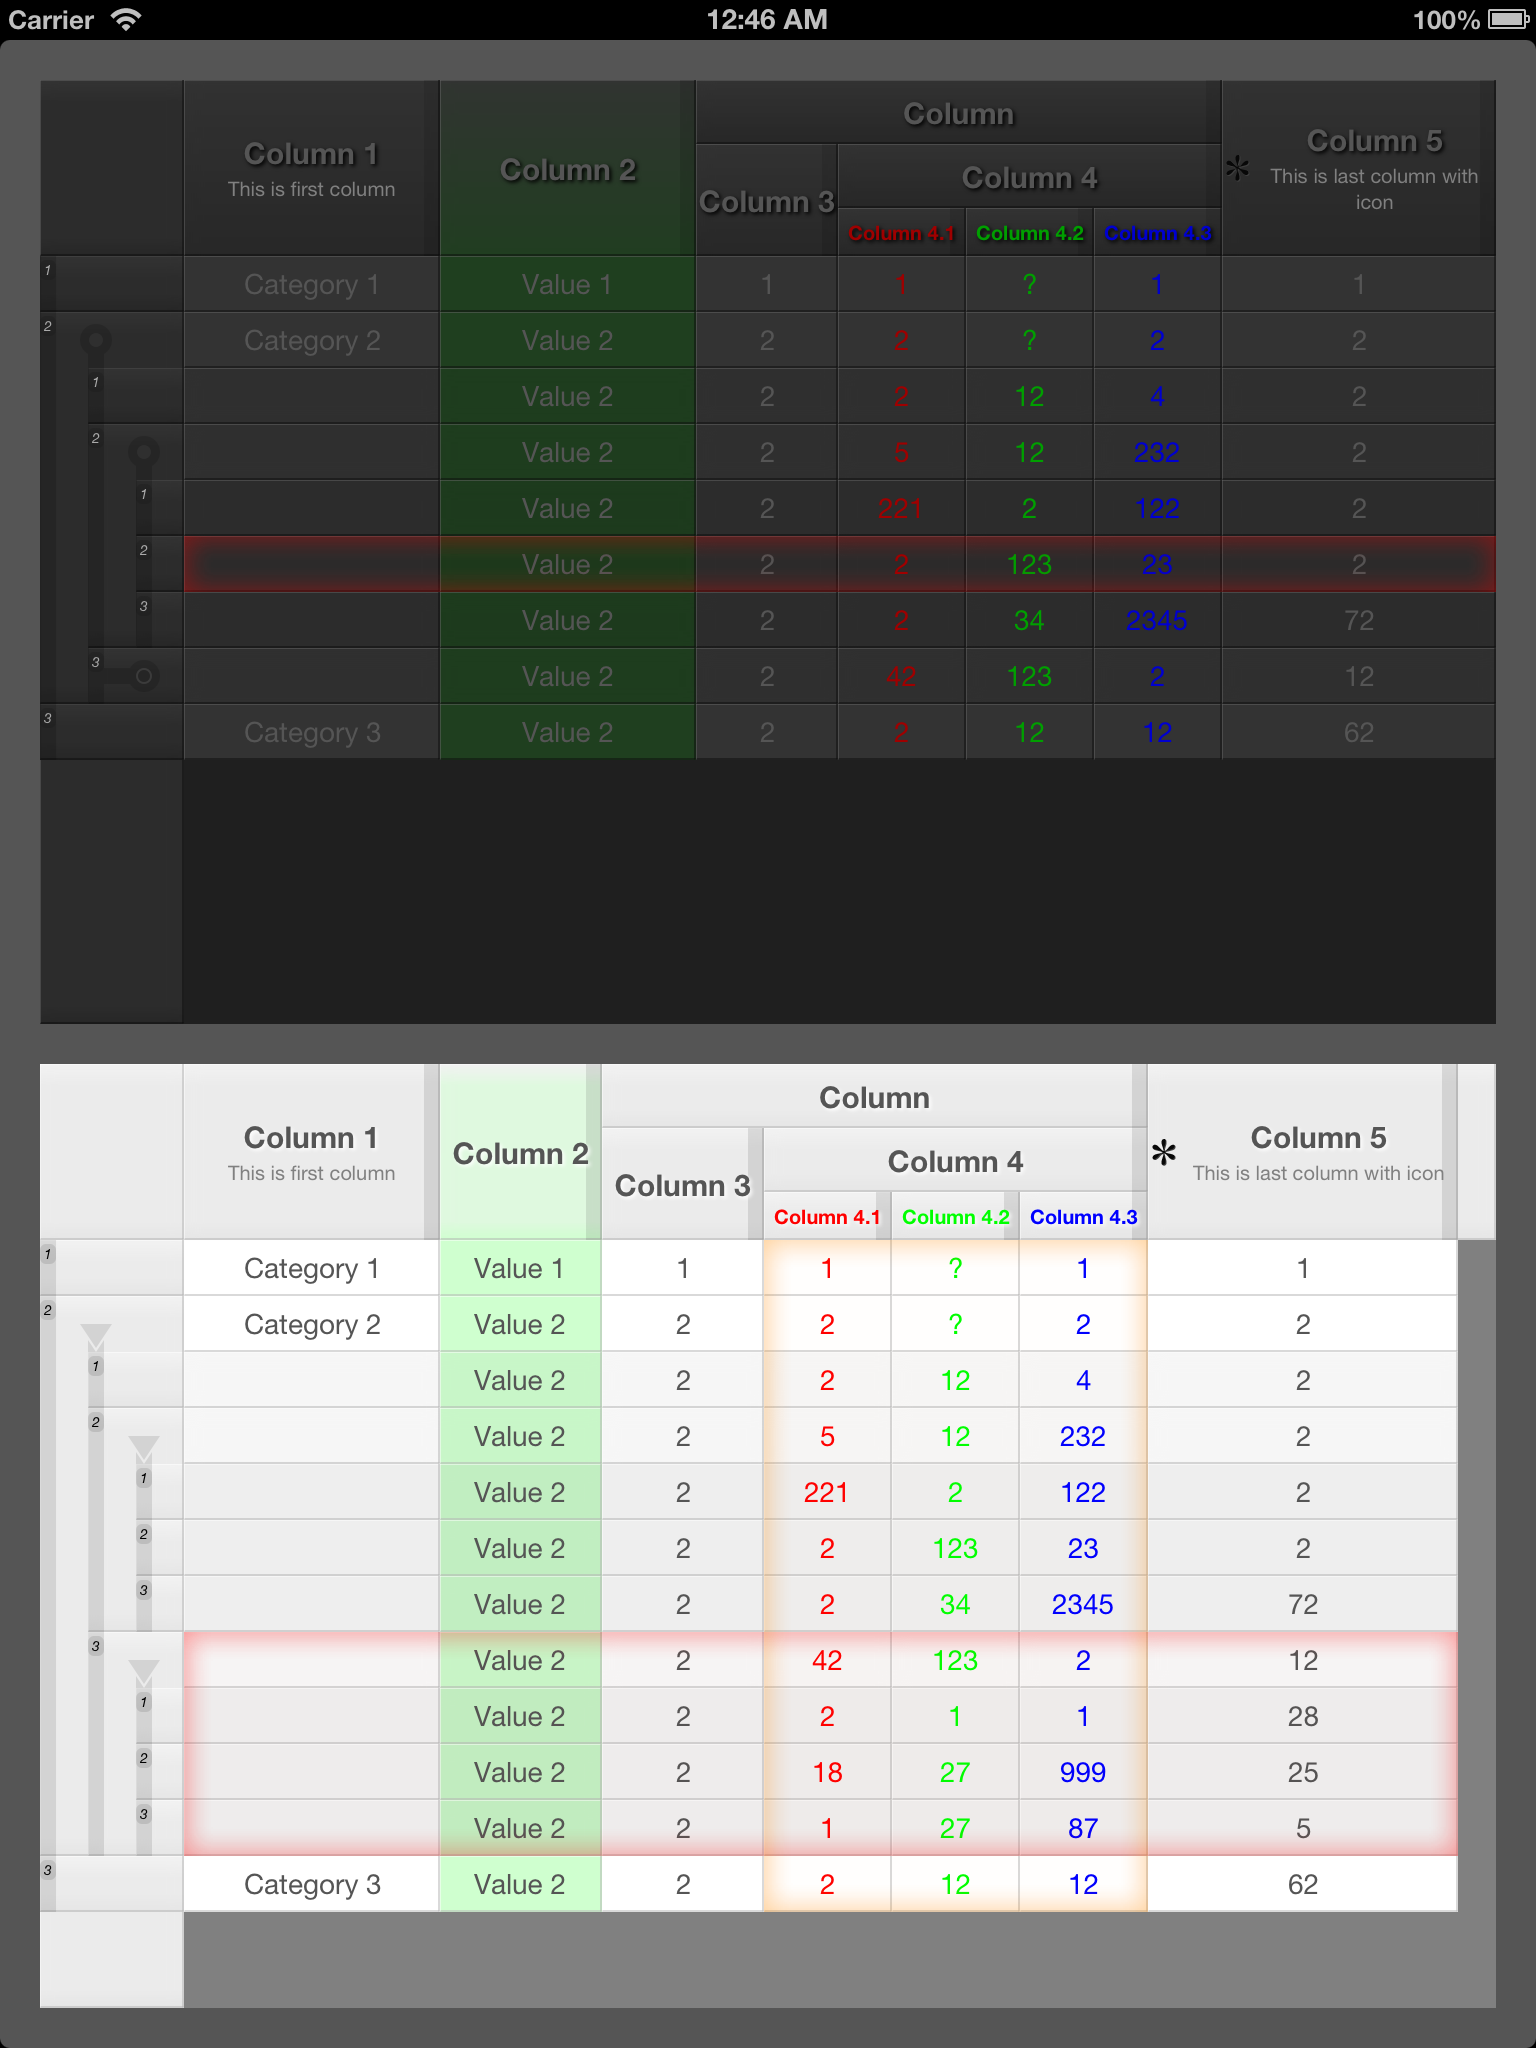
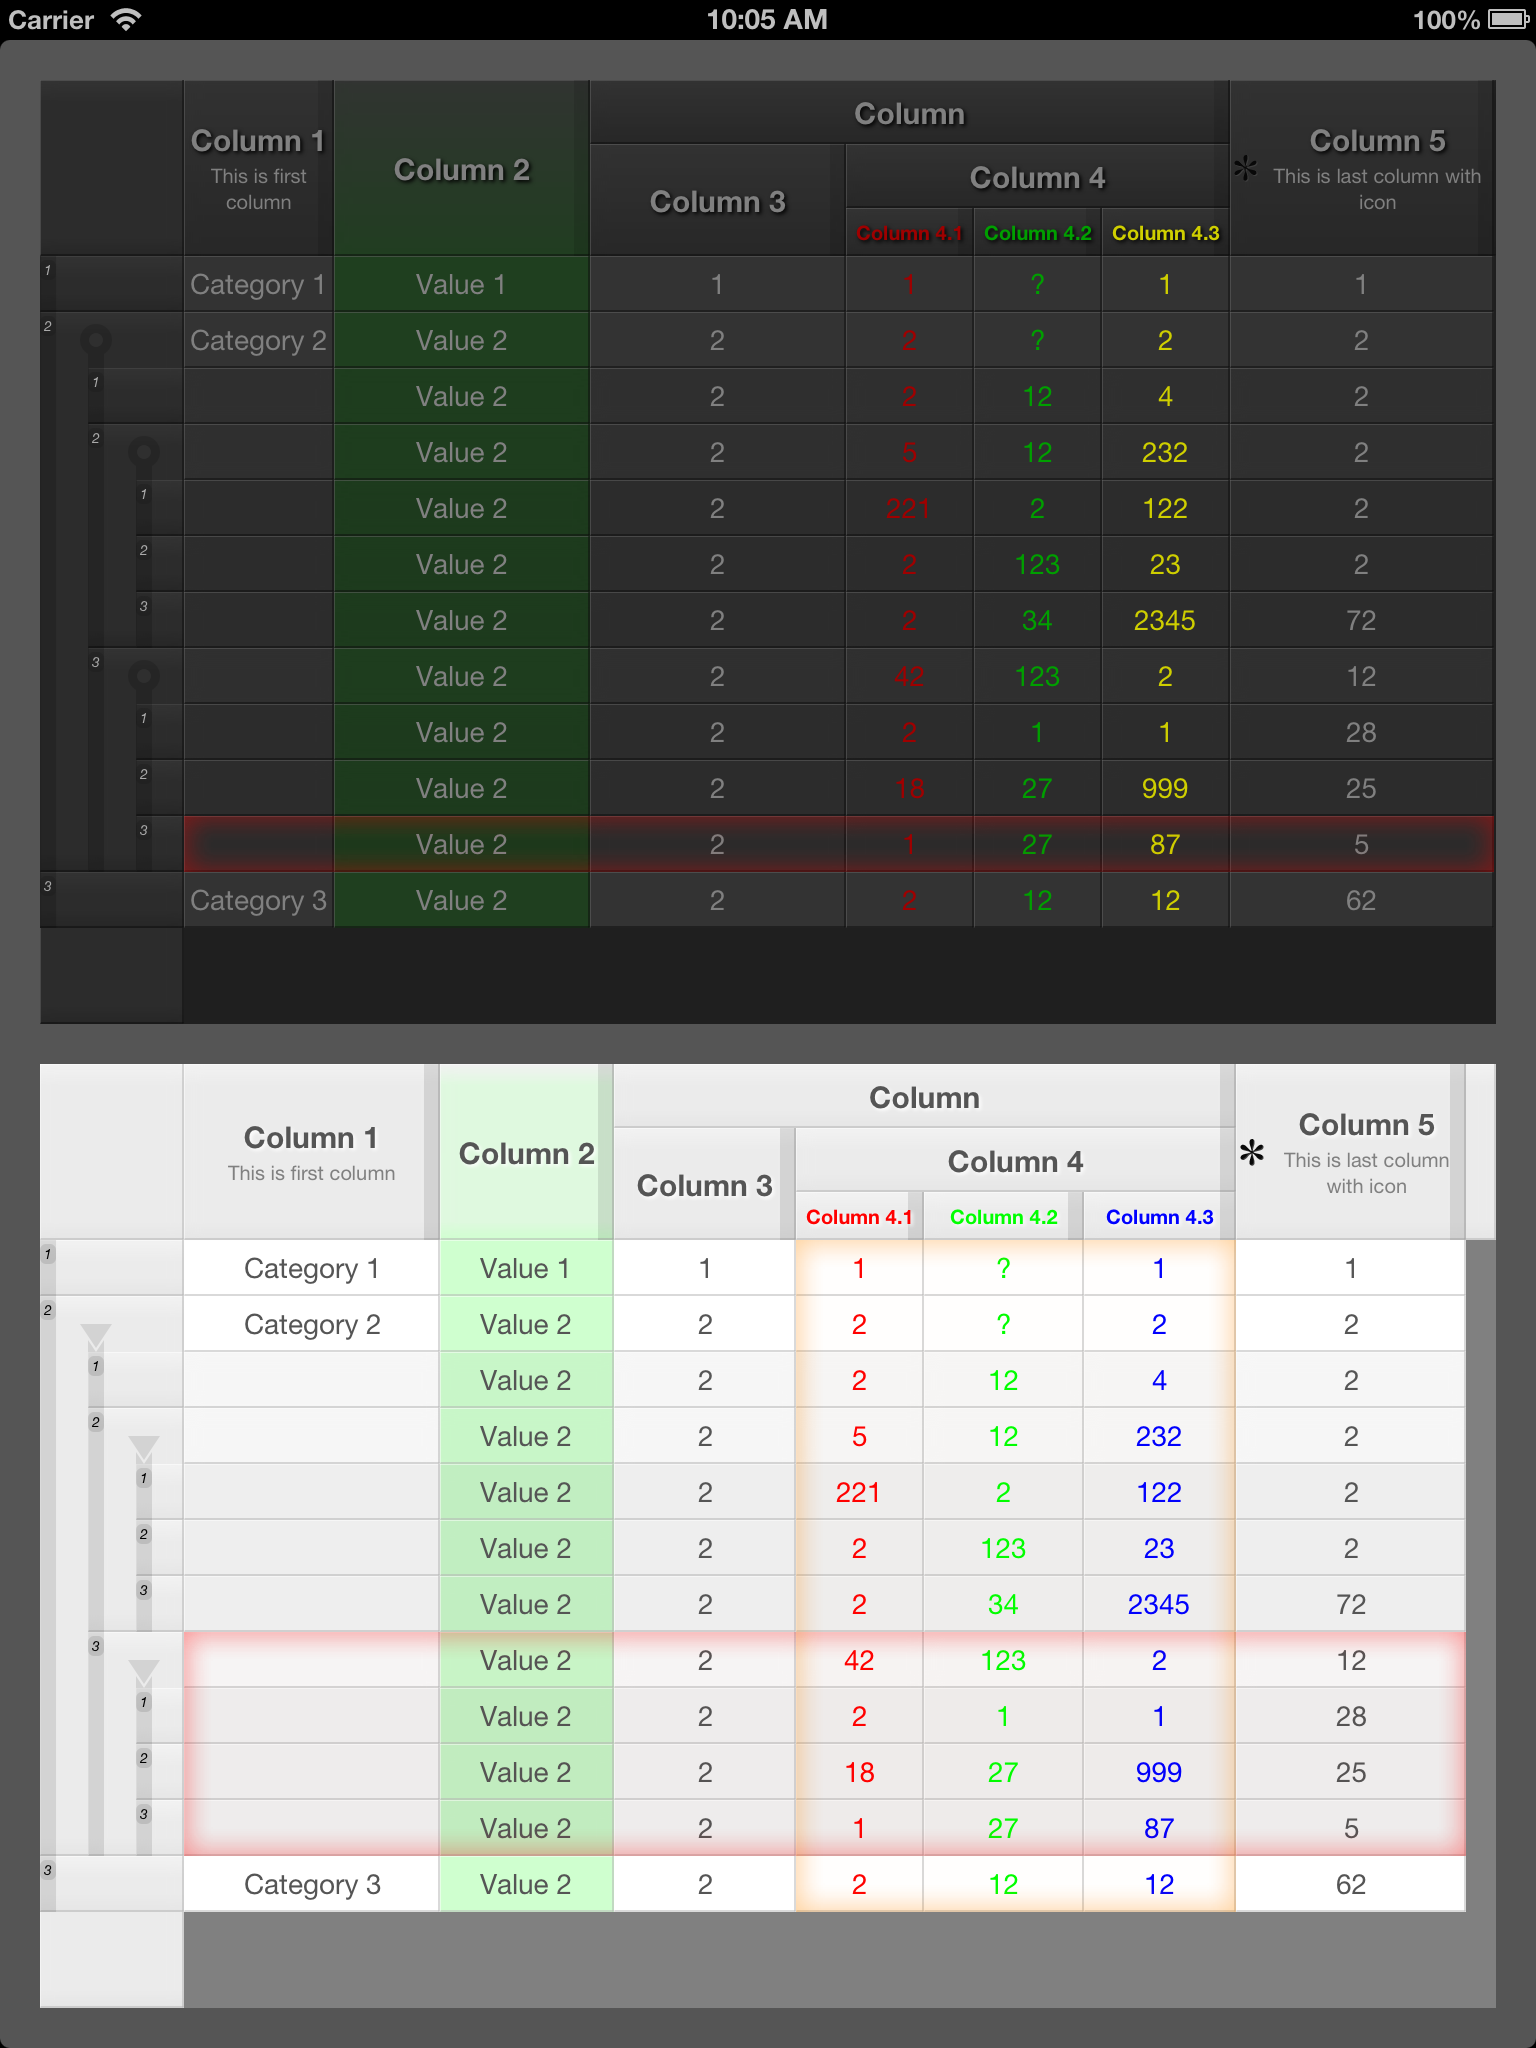
Updated screenshots

diff --git a/TableView/TSTableViewController.m b/TableView/TSTableViewController.m
@@ -46,7 +46,7 @@
                                                        @"headerHeight" : @24,
                                                        @"defWidth" : @64,
                                                        @"titleFontSize" : @"10",
-                                                       @"titleColor" : @"FF0000CF"}
+                                                       @"titleColor" : @"FFCFCF00"}
                                                     ]
                                             }
                                          ]
@@ -375,14 +375,14 @@
     [self.view addSubview:_tableView1];
     
     _model1 = [[TSTableViewModel alloc] initWithTableView:_tableView1 andStyle:TSTableViewStyleDark];
-    [_model1 setColumnsInfo:columns andRowsInfo:rows];
+    [_model1 setColumnsInfo:columns2 andRowsInfo:rows2];
     
     _tableView2 = [[TSTableView alloc] initWithFrame:CGRectMake(20, self.view.frame.size.height/2 + 10, self.view.frame.size.width - 40, self.view.frame.size.height/2 - 30)];
     _tableView2.autoresizingMask = UIViewAutoresizingFlexibleWidth | UIViewAutoresizingFlexibleHeight;
     [self.view addSubview:_tableView2];
     
     _model2 = [[TSTableViewModel alloc] initWithTableView:_tableView2 andStyle:TSTableViewStyleLight];
-    [_model2 setColumnsInfo:columns1 andRowsInfo:rows];
+    [_model2 setColumnsInfo:columns2 andRowsInfo:rows2];
 }
 
 - (void)didReceiveMemoryWarning

diff --git a/TSUIKit/Classes/TSUIKit/TSTableView/TSTableViewModel.m b/TSUIKit/Classes/TSUIKit/TSTableView/TSTableViewModel.m
@@ -616,19 +616,22 @@
         cell.textLabel.text = [cellInfo.value description];
     }
     
-    TSColumn *columnInfo = [self columnAtIndex:index];
-    if(columnInfo.titleColor)
-        cell.textLabel.textColor = columnInfo.titleColor;
-    
     CGFloat color;
     if(_tableStyle == TSTableViewStyleDark)
     {
         color = 0.16f + 0.04f * (1 - (indexPath.length - 1)/(float)tableView.maxNestingLevel);
+        
+        cell.textLabel.textColor = [UIColor grayColor];
     }
     else
     {
         color = 0.9f + 0.1f * (1 - (indexPath.length - 1)/(float)tableView.maxNestingLevel);
+        cell.textLabel.textColor = [UIColor darkGrayColor];
     }
+    
+    TSColumn *columnInfo = [self columnAtIndex:index];
+    if(columnInfo.titleColor)
+        cell.textLabel.textColor = columnInfo.titleColor;
     
     if(columnInfo.color)
     {
@@ -668,11 +671,13 @@
     if(_tableStyle == TSTableViewStyleDark)
     {
         section.textLabel.layer.shadowColor = [UIColor blackColor].CGColor;
+        section.textLabel.textColor = [UIColor grayColor];
         section.backgroundImageView.image = [self headerSectionBackgroundImageWithBaseColor2:column.color];
     }
     else
     {
         section.backgroundImageView.image = [self headerSectionBackgroundImageWithBaseColor:column.color];
+        section.textLabel.textColor = [UIColor darkGrayColor];
     }
     
     if(column.title)
